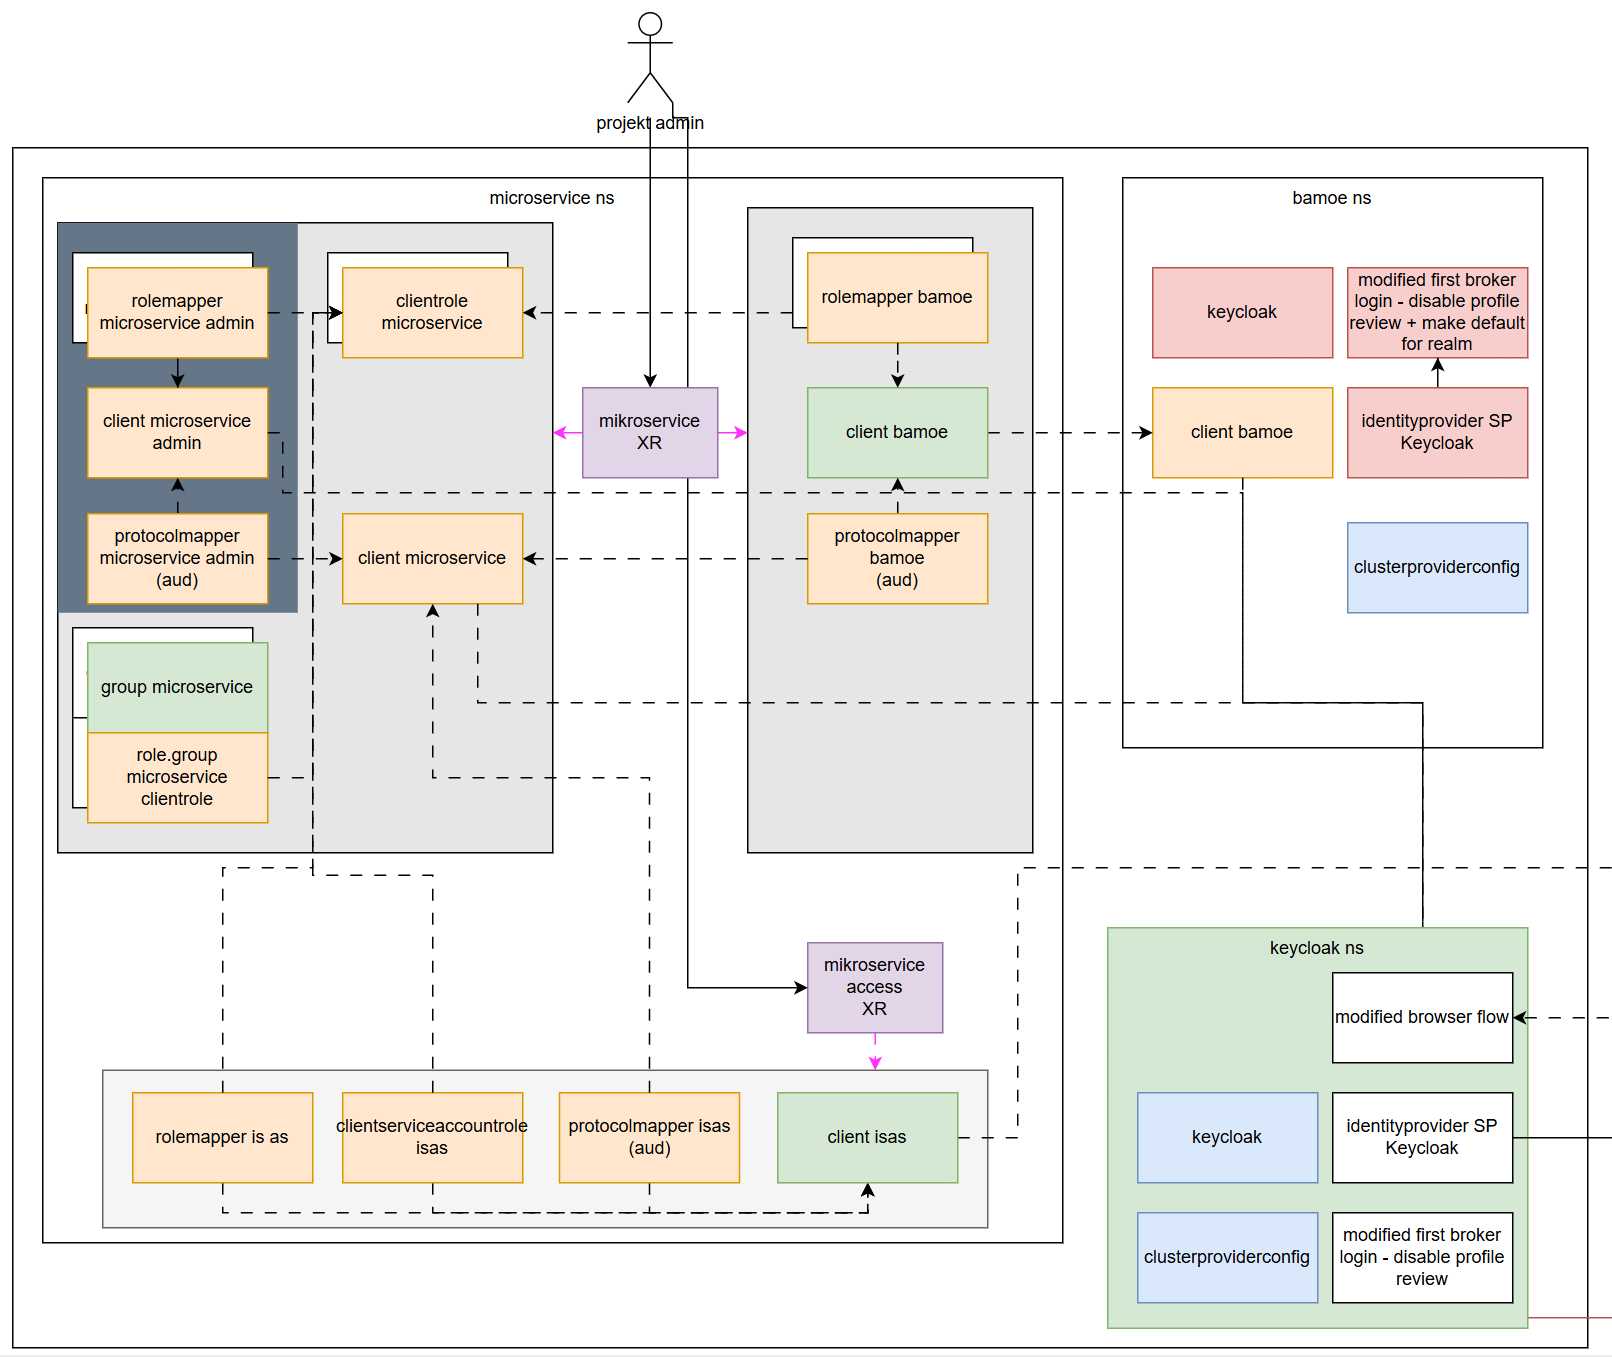
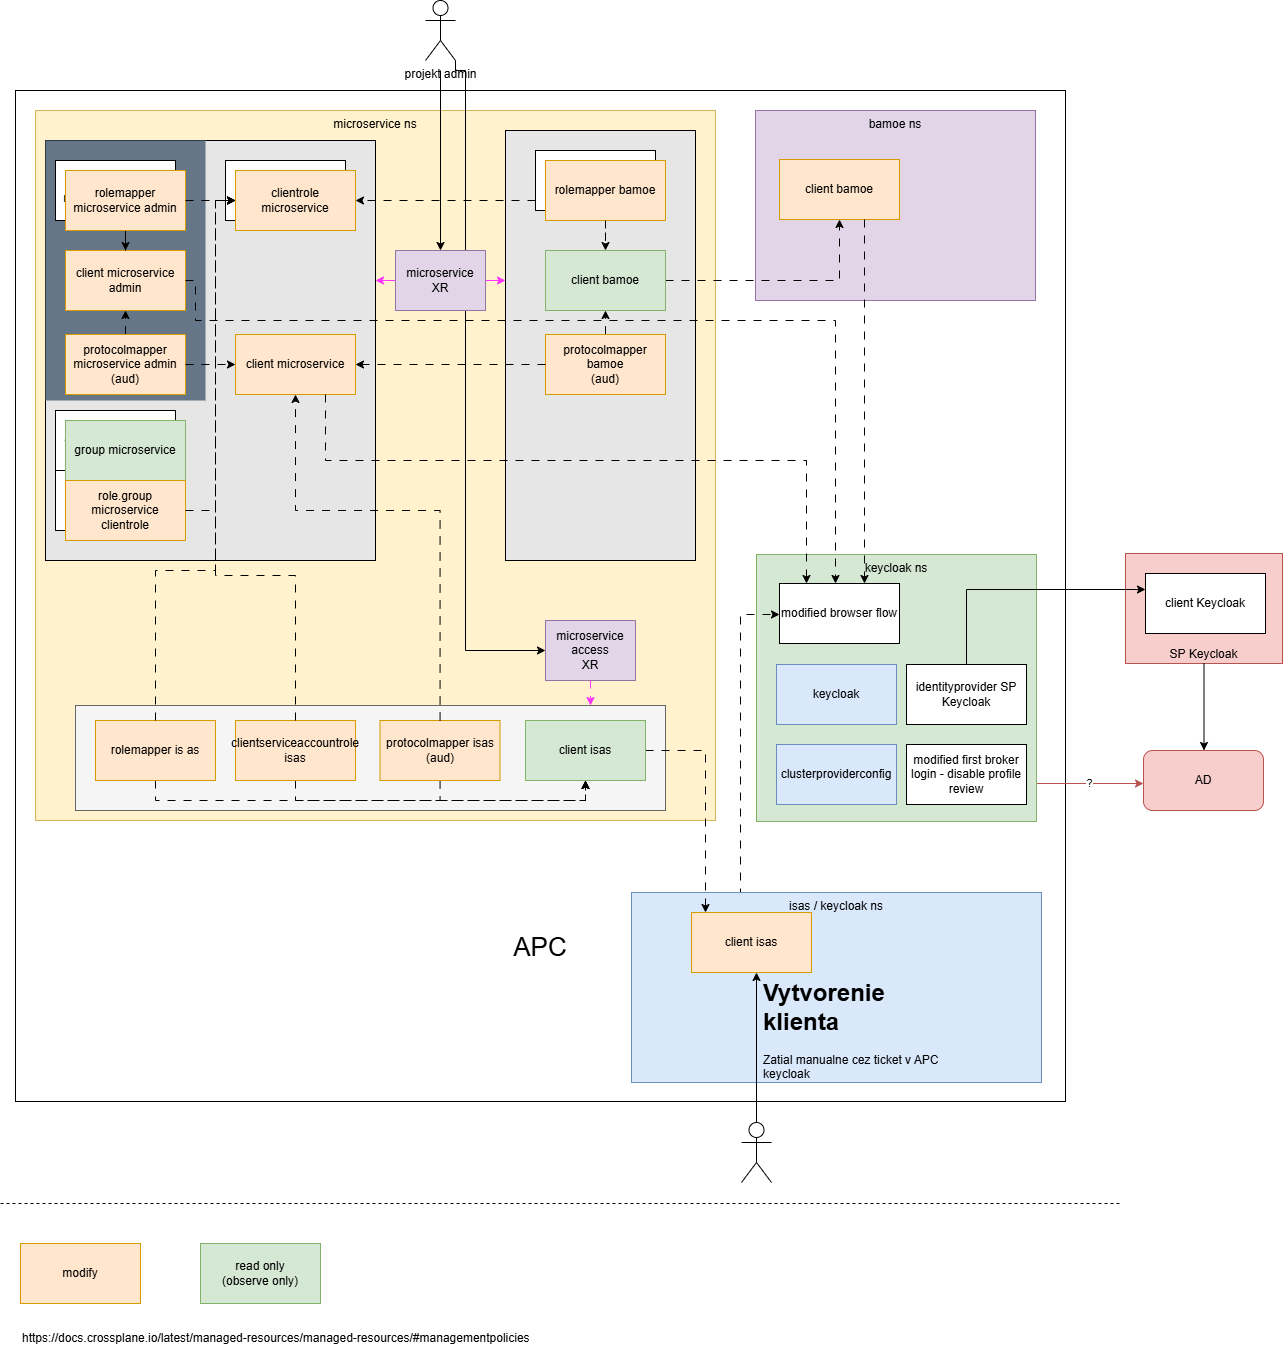
modify architecture of apps-centralne-komponenty

diff --git a/charts/apps-centralne-komponenty/README.md b/charts/apps-centralne-komponenty/README.md
@@ -8,8 +8,10 @@ Due to inefficiencies of RHBK / Kubernetes RBAC (for example allow creation and 
 
 There are two XRDs:
 
-- microservice.ck.socpoist.sk
-- microserviceaccess.ck.socpoist.sk
+- [microservice.ck.socpoist.sk](#microservice)
+- [microserviceaccess.ck.socpoist.sk](#microservice-access)
+
+Usage of APC Keycloak is preferred due to operational complexity of running a Keycloak instance 24/7
 
 ### Microservice
 
